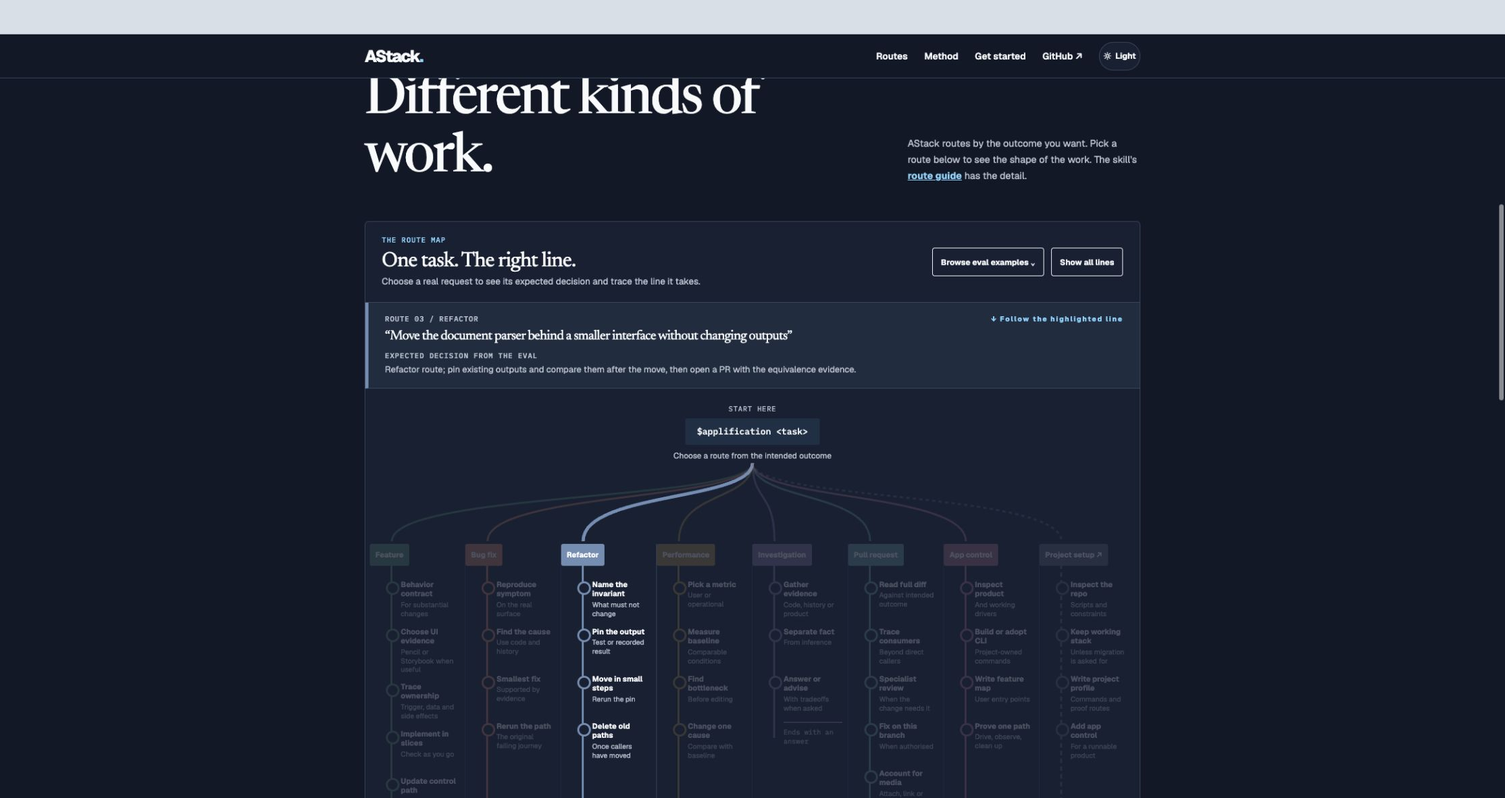
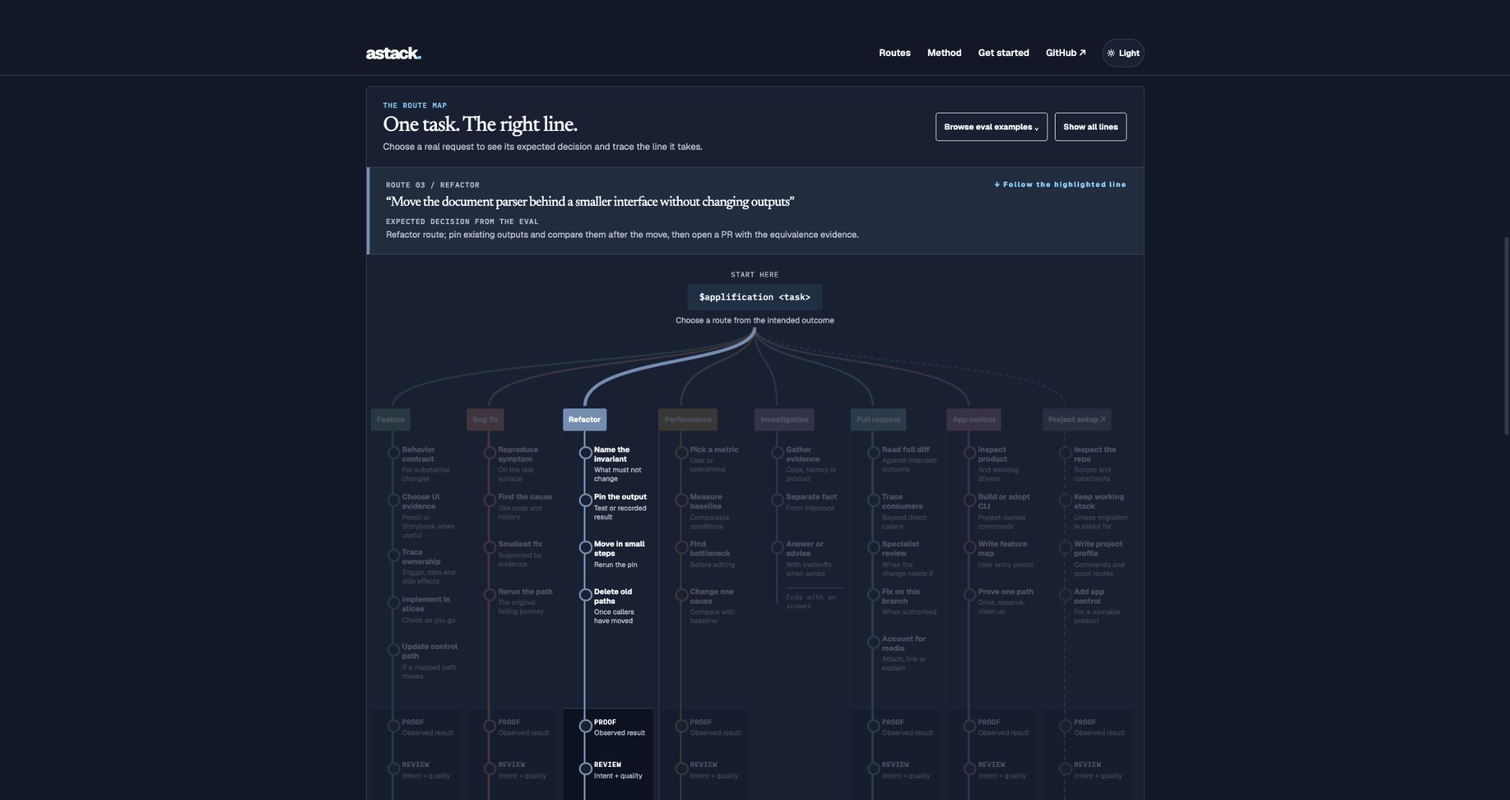
Use lowercase astack branding in site copy

diff --git a/site/index.html b/site/index.html
@@ -4,9 +4,9 @@
   <meta charset="utf-8">
   <meta name="viewport" content="width=device-width, initial-scale=1">
   <meta name="theme-color" content="#d7dfe7">
-  <meta name="description" content="AStack is the Applification plugin for Codex. Give it an engineering task; it chooses a route, checks the result, and brings kept changes to a pull request.">
+  <meta name="description" content="astack is the workflow behind the Applification plugin for Codex. Give it an engineering task; it chooses a route, checks the result, and brings kept changes to a pull request.">
   <meta property="og:type" content="website">
-  <meta property="og:title" content="AStack | From task to proof">
+  <meta property="og:title" content="astack | From task to proof">
   <meta property="og:description" content="A practical map of the Applification workflow for Codex, maintained with the source.">
   <meta property="og:url" content="https://astack.applification.net/">
   <link rel="canonical" href="https://astack.applification.net/">
@@ -17,12 +17,12 @@
   <script>try { const saved = localStorage.getItem('astack-theme'); document.documentElement.dataset.theme = saved || (matchMedia('(prefers-color-scheme: dark)').matches ? 'dark' : 'light'); } catch { document.documentElement.dataset.theme = 'light'; }</script>
   <link rel="stylesheet" href="./styles.css">
   <script src="./app.js" defer></script>
-  <title>AStack | From task to proof</title>
+  <title>astack | From task to proof</title>
 </head>
 <body>
 <a class="skip-link" href="#main">Skip to content</a>
 <header class="site-header">
-  <a class="brand" href="#top" aria-label="AStack home">AStack<span>.</span></a>
+  <a class="brand" href="#top" aria-label="astack home">astack<span>.</span></a>
   <nav class="site-nav" aria-label="Main navigation"><a href="#routes">Routes</a><a href="#method">Method</a><a href="#adopt">Get started</a><a class="nav-repo" href="https://github.com/applification/astack">GitHub ↗</a><button id="theme-toggle" class="theme-toggle" type="button" aria-label="Switch to dark theme"><span id="theme-icon" aria-hidden="true">☾</span><span class="theme-label">Dark</span></button></nav>
 </header>
 <main id="main">
@@ -30,14 +30,14 @@
     <div class="hero-copy">
       <p class="eyebrow"><span class="status-dot" aria-hidden="true"></span> Applification for Codex</p>
       <h1 id="hero-title">From task<br>to <em>proof.</em></h1>
-      <p class="hero-lede">AStack gives Codex one entry point for engineering work. Describe the change. It chooses a route, follows the relevant guidance, checks what happened, and brings kept code to a pull request.</p>
+      <p class="hero-lede">astack gives Codex one entry point for engineering work. Describe the change. It chooses a route, follows the relevant guidance, checks what happened, and brings kept code to a pull request.</p>
       <div class="hero-actions"><a class="button button-dark" href="#adopt">Get started <span aria-hidden="true">↗</span></a><a class="text-link" href="https://github.com/applification/astack/blob/main/plugins/applification/skills/applification/SKILL.md">Read the skill ↗</a></div>
       <p class="source-note">The <a href="https://github.com/applification/astack">repository</a> is the source of truth. This site explains the workflow without pinning it to a release snapshot.</p>
     </div>
-    <aside class="hero-aside"><p class="eyebrow">THE WORKING METHOD</p><p>A task goes to the route that fits it. AStack asks what would prove the outcome, then brings the evidence into review.</p><a href="#routes">Follow the route map ↗</a></aside>
+    <aside class="hero-aside"><p class="eyebrow">THE WORKING METHOD</p><p>A task goes to the route that fits it. astack asks what would prove the outcome, then brings the evidence into review.</p><a href="#routes">Follow the route map ↗</a></aside>
   </section>
   <section class="section-shell routes-section" id="routes" aria-labelledby="routes-title">
-    <div class="section-heading"><div><p class="eyebrow">01 / ROUTING</p><h2 id="routes-title">One entry point.<br><em>Different kinds of work.</em></h2></div><p>AStack routes by the outcome you want. Pick a route below to see the shape of the work. The skill's <a href="https://github.com/applification/astack/blob/main/plugins/applification/skills/applification/references/routes.md">route guide</a> has the detail.</p></div>
+    <div class="section-heading"><div><p class="eyebrow">01 / ROUTING</p><h2 id="routes-title">One entry point.<br><em>Different kinds of work.</em></h2></div><p>astack routes by the outcome you want. Pick a route below to see the shape of the work. The skill's <a href="https://github.com/applification/astack/blob/main/plugins/applification/skills/applification/references/routes.md">route guide</a> has the detail.</p></div>
     <div class="route-workbench" id="route-workbench">
       <div class="map-heading"><div><span class="map-heading-index">THE ROUTE MAP</span><h3>One task. The right line.</h3><p>Choose a real request to see its expected decision and trace the line it takes.</p></div><div class="map-actions"><button id="browse-requests" type="button" aria-expanded="false" aria-controls="trace-panel">Browse eval examples <span aria-hidden="true">⌄</span></button><button id="show-all-routes" type="button">Show all lines</button></div></div>
     <div class="trace-panel" id="trace-panel" aria-labelledby="trace-title" hidden>
@@ -55,7 +55,7 @@
       <p id="route-description"></p>
     </article>
     <p class="mobile-map-entry"><span>START HERE</span><strong>$applification &lt;task&gt;</strong> → choose the line that fits the outcome</p>
-    <div class="map-scroll" role="region" aria-label="Vertical AStack route map. Scroll horizontally on small screens." tabindex="0">
+    <div class="map-scroll" role="region" aria-label="Vertical astack route map. Scroll horizontally on small screens." tabindex="0">
       <div class="route-map" id="route-map">
         <div class="v-entry"><span>START HERE</span><strong>$applification &lt;task&gt;</strong><small>Choose a route from the intended outcome</small></div>
         <svg class="v-branches" viewBox="0 0 1184 128" preserveAspectRatio="none" aria-hidden="true">
@@ -349,7 +349,7 @@
     <p class="routes-caption">The route is a decision guide, not a compulsory checklist. <a href="https://github.com/applification/astack/blob/main/evals/routing.md">See the routing examples ↗</a></p>
   </section>
   <section class="method-section" id="method" aria-labelledby="method-title"><div class="section-shell">
-    <div class="section-heading"><div><p class="eyebrow">02 / METHOD</p><h2 id="method-title">The check follows<br><em>the claim.</em></h2></div><p>A passing command says what that command checked. AStack asks for evidence from the surface where the behavior actually matters.</p></div>
+    <div class="section-heading"><div><p class="eyebrow">02 / METHOD</p><h2 id="method-title">The check follows<br><em>the claim.</em></h2></div><p>A passing command says what that command checked. astack asks for evidence from the surface where the behavior actually matters.</p></div>
     <div class="method-grid">
       <article class="method-card"><span class="method-index">01 / INTENT</span><h3>Name the outcome</h3><p>For a substantial change, keep a short behavior contract in <code>.astack/&lt;feature&gt;/</code>. It ties cases, design choices, and proof together.</p><a href="https://github.com/applification/astack/blob/main/plugins/applification/skills/applification/references/behavior-contract.md">Behavior contract ↗</a></article>
       <article class="method-card"><span class="method-index">02 / BUILD</span><h3>Use what helps</h3><p>For web UI, decide separately whether Pencil and Storybook would answer a real design or component question. Existing projects keep their working stack.</p><a href="https://github.com/applification/astack/blob/main/plugins/applification/skills/applification/references/web-feature.md">Web UI guidance ↗</a></article>
@@ -358,14 +358,14 @@
     </div>
   </div></section>
   <section class="section-shell adopt-section" id="adopt" aria-labelledby="adopt-title">
-    <div class="section-heading"><div><p class="eyebrow">03 / ADOPTION</p><h2 id="adopt-title">Put it to work<br><em>in your project.</em></h2></div><p>The installable plugin is called <strong>Applification</strong>. AStack's guidance stays in this repo; your project owns its commands, environments, and product decisions.</p></div>
+    <div class="section-heading"><div><p class="eyebrow">03 / ADOPTION</p><h2 id="adopt-title">Put it to work<br><em>in your project.</em></h2></div><p>The installable plugin is called <strong>Applification</strong>. astack's guidance stays in this repo; your project owns its commands, environments, and product decisions.</p></div>
     <div class="adopt-grid">
       <div class="install-card"><div class="install-heading"><span>TRY IT IN CODEX</span><button id="copy-command" class="copy-button" type="button" aria-label="Copy installation commands">Copy</button></div><pre><code id="install-command">codex plugin marketplace add applification/astack
 codex plugin add applification@applification</code></pre><p>Then start a task with <code>$applification</code> and describe what you want done.</p></div>
-      <div class="adopt-notes"><div><span class="note-index">01</span><h3>Pin it when it matters</h3><p>For a project-controlled version, point a local marketplace entry at an AStack ref or SHA and enable it in that project's Codex config.</p><a href="https://github.com/applification/astack/blob/main/docs/project-install.md">Project install guide ↗</a></div><div><span class="note-index">02</span><h3>Keep your stack</h3><p>Adopting AStack does not require a framework or package manager migration. Its Bun, Next.js, and Turborepo layout is the default for new products with no chosen stack.</p><a href="https://github.com/applification/astack/blob/main/plugins/applification/skills/applification/references/project-setup.md">Project setup ↗</a></div></div>
+      <div class="adopt-notes"><div><span class="note-index">01</span><h3>Pin it when it matters</h3><p>For a project-controlled version, point a local marketplace entry at an astack ref or SHA and enable it in that project's Codex config.</p><a href="https://github.com/applification/astack/blob/main/docs/project-install.md">Project install guide ↗</a></div><div><span class="note-index">02</span><h3>Keep your stack</h3><p>Adopting astack does not require a framework or package manager migration. Its Bun, Next.js, and Turborepo layout is the default for new products with no chosen stack.</p><a href="https://github.com/applification/astack/blob/main/plugins/applification/skills/applification/references/project-setup.md">Project setup ↗</a></div></div>
     </div>
   </section>
 </main>
-<footer class="site-footer"><div class="section-shell footer-inner"><div><a class="footer-brand" href="#top">AStack<span>.</span></a><p>Open source, built by <a href="https://www.applification.net/">Applification</a>.</p></div><div class="footer-links"><a href="https://github.com/applification/astack">Repository ↗</a><a href="https://github.com/applification/astack/blob/main/README.md">README ↗</a><a href="https://github.com/applification/astack/blob/main/LICENSE">MIT license ↗</a></div></div></footer>
+<footer class="site-footer"><div class="section-shell footer-inner"><div><a class="footer-brand" href="#top">astack<span>.</span></a><p>Open source, built by <a href="https://www.applification.net/">Applification</a>.</p></div><div class="footer-links"><a href="https://github.com/applification/astack">Repository ↗</a><a href="https://github.com/applification/astack/blob/main/README.md">README ↗</a><a href="https://github.com/applification/astack/blob/main/LICENSE">MIT license ↗</a></div></div></footer>
 </body>
 </html>

diff --git a/site/app.js b/site/app.js
@@ -39,13 +39,13 @@ const routes = {
     number: '07', name: 'App control', title: 'Make the real product drivable.',
     description: 'Create or repair a project-owned command and feature map so later work can reach, act on, and observe the product.',
     steps: ['Inspect the product and working drivers', 'Create or adopt the control command', 'Map user entry points', 'Drive one real path and open a PR'],
-    example: '“Set up AStack to verify our web app.”'
+    example: '“Set up astack to verify our web app.”'
   },
   setup: {
-    number: '08', name: 'Project setup', title: 'Fit AStack to the project.',
+    number: '08', name: 'Project setup', title: 'Fit astack to the project.',
     description: 'Inspect the existing stack and working commands. Keep them where they work, record the project profile, and add product control when the app needs it.',
     steps: ['Inspect the repository and scripts', 'Keep the working stack', 'Record commands and proof routes', 'Drive one real path when the project has an app'],
-    example: '“Adopt AStack in an existing pnpm app.”'
+    example: '“Adopt astack in an existing pnpm app.”'
   }
 };
 

diff --git a/README.md b/README.md
@@ -1,12 +1,12 @@
-# AStack
+# astack
 
-AStack is a Codex workflow for moving from an intended change to a verified result. The installable plugin is named **Applification**. Give it an engineering task with `$applification`; it chooses a route, uses the relevant guidance, and checks the outcome. Each project supplies its own commands, environments, and product decisions.
+astack is a Codex workflow for moving from an intended change to a verified result. The installable plugin is named **Applification**. Give it an engineering task with `$applification`; it chooses a route, uses the relevant guidance, and checks the outcome. Each project supplies its own commands, environments, and product decisions.
 
-**[Explore the AStack site](https://astack.applification.net/)** for a visual route map and searchable routing examples. This README and the [skill source](plugins/applification/skills/applification/SKILL.md) hold the detail. The site lives in [`site/`](site/) in this repository.
+**[Explore the astack site](https://astack.applification.net/)** for a visual route map and searchable routing examples. This README and the [skill source](plugins/applification/skills/applification/SKILL.md) hold the detail. The site lives in [`site/`](site/) in this repository.
 
 ## How it works
 
-| You want to… | AStack's route |
+| You want to… | astack's route |
 | --- | --- |
 | Add or change user behavior | Feature |
 | Fix a reported defect | Bug fix |
@@ -16,7 +16,7 @@ AStack is a Codex workflow for moving from an intended change to a verified resu
 | Review or finish an existing change | Pull request |
 | Make a running app controllable for verification | App control |
 
-The route is a decision guide, not a checklist. AStack picks checks that can catch the relevant failure and records what was actually observed. Kept repository changes end in a pull request; a read-only investigation ends with an answer. See the [work routes](plugins/applification/skills/applification/references/routes.md), [proof guidance](plugins/applification/skills/applification/references/proof.md), and [routing examples](evals/routing.md).
+The route is a decision guide, not a checklist. astack picks checks that can catch the relevant failure and records what was actually observed. Kept repository changes end in a pull request; a read-only investigation ends with an answer. See the [work routes](plugins/applification/skills/applification/references/routes.md), [proof guidance](plugins/applification/skills/applification/references/proof.md), and [routing examples](evals/routing.md).
 
 The plugin has one entry skill, [`applification`](plugins/applification/skills/applification/SKILL.md). For web UI work, it decides whether Pencil, Storybook, or both would help with the change and records why. Proof names the affected behavior, revision, environment, and observed result. Example Mapping, Gherkin, a separate story tracker, and a universal proof runner are not required.
 
@@ -29,13 +29,13 @@ codex plugin marketplace add applification/astack
 codex plugin add applification@applification
 ```
 
-For a project-controlled version, use the [project installation guide](docs/project-install.md). Start a task with `$applification`, for example, `$applification Fix the save button that loses edits after reopening`. In Codex CLI or the IDE extension, `/skills` can select the same skill. Plugin skills do not create a literal `/applification` slash command; [Codex's custom prompt commands are deprecated](https://learn.chatgpt.com/docs/custom-prompts). A short pointer in the project's `AGENTS.md` can opt in without a manual mention. During project setup, AStack inspects the repository and creates `.astack/project.md` with local proof routes and decision locations. For a runnable product, it also creates or adopts a project-owned `astack-<app>` control CLI and feature map. The plugin stays sourced from this repository; project-specific details stay in the project.
+For a project-controlled version, use the [project installation guide](docs/project-install.md). Start a task with `$applification`, for example, `$applification Fix the save button that loses edits after reopening`. In Codex CLI or the IDE extension, `/skills` can select the same skill. Plugin skills do not create a literal `/applification` slash command; [Codex's custom prompt commands are deprecated](https://learn.chatgpt.com/docs/custom-prompts). A short pointer in the project's `AGENTS.md` can opt in without a manual mention. During project setup, astack inspects the repository and creates `.astack/project.md` with local proof routes and decision locations. For a runnable product, it also creates or adopts a project-owned `astack-<app>` control CLI and feature map. The plugin stays sourced from this repository; project-specific details stay in the project.
 
 For local development of this plugin, use `codex plugin marketplace add /absolute/path/to/astack` and `codex plugin add applification@applification` in a test Codex installation. The desktop app may need a restart to load an updated installed copy.
 
 ## Behavior contract
 
-For a substantial behavior change, AStack keeps one contract with an outcome, a few observable acceptance cases, affected surfaces, and unresolved product decisions. Given/When/Then can express a case but is not required. For web UI work, record the Pencil and Storybook decisions; when used, link the chosen frames and story IDs beside the cases they support, with what each actually demonstrated. Implementation follows that contract, and running-product proof records the results for the same cases. The PR links the tracked contract and summarizes its evidence.
+For a substantial behavior change, astack keeps one contract with an outcome, a few observable acceptance cases, affected surfaces, and unresolved product decisions. Given/When/Then can express a case but is not required. For web UI work, record the Pencil and Storybook decisions; when used, link the chosen frames and story IDs beside the cases they support, with what each actually demonstrated. Implementation follows that contract, and running-product proof records the results for the same cases. The PR links the tracked contract and summarizes its evidence.
 
 When a design sprint uses Pencil, its artifacts live together in `.astack/`, which must be visible to Git:
 
@@ -49,29 +49,29 @@ When a design sprint uses Pencil, its artifacts live together in `.astack/`, whi
     evidence/
 ```
 
-When used, Storybook stories stay with their components in `apps/` or `packages/` and are referenced from the contract. AStack does not create separate root `design/` and `docs/` folders for feature work.
+When used, Storybook stories stay with their components in `apps/` or `packages/` and are referenced from the contract. astack does not create separate root `design/` and `docs/` folders for feature work.
 
 ## App control
 
-The [app control route](plugins/applification/skills/applification/references/app-control.md) creates a project-local `astack-<app>` CLI that can launch or connect to a running product, check its identity, exercise user actions, inspect results, and capture evidence. Its skill and script live in `.codex/skills/astack-<app>/`; a short feature map in `.astack/feature-map/<app>/` records how users reach each feature and which CLI commands drive it. The CLI is built from the project's existing browser, simulator, terminal, or protocol tools; AStack does not bundle one driver for every product. Setup proves one mapped path end to end, and later changes update the command and map when that path changes.
+The [app control route](plugins/applification/skills/applification/references/app-control.md) creates a project-local `astack-<app>` CLI that can launch or connect to a running product, check its identity, exercise user actions, inspect results, and capture evidence. Its skill and script live in `.codex/skills/astack-<app>/`; a short feature map in `.astack/feature-map/<app>/` records how users reach each feature and which CLI commands drive it. The CLI is built from the project's existing browser, simulator, terminal, or protocol tools; astack does not bundle one driver for every product. Setup proves one mapped path end to end, and later changes update the command and map when that path changes.
 
-For new products without a chosen stack, AStack's default is a Bun workspace monorepo with Turborepo: deployable surfaces in `apps/`, reusable code in `packages/`. A new web UI uses Next.js App Router + TypeScript and shadcn/ui with Tailwind CSS from `packages/ui`. Local web development uses [Portless](https://portless.sh/) for stable, worktree-specific URLs; Portless currently requires Node.js 24+ alongside Bun. Next.js's version-matched agent docs and separately configured DevTools MCP support runtime inspection. The [shadcn lint workflow](plugins/applification/skills/applification/references/shadcn-lint.md) adds design-system checks when shadcn/ui is used. New products needing a database use Convex in `packages/backend`, starting with a named development deployment. Existing projects keep their working stack and tools unless a migration is requested.
+For new products without a chosen stack, astack's default is a Bun workspace monorepo with Turborepo: deployable surfaces in `apps/`, reusable code in `packages/`. A new web UI uses Next.js App Router + TypeScript and shadcn/ui with Tailwind CSS from `packages/ui`. Local web development uses [Portless](https://portless.sh/) for stable, worktree-specific URLs; Portless currently requires Node.js 24+ alongside Bun. Next.js's version-matched agent docs and separately configured DevTools MCP support runtime inspection. The [shadcn lint workflow](plugins/applification/skills/applification/references/shadcn-lint.md) adds design-system checks when shadcn/ui is used. New products needing a database use Convex in `packages/backend`, starting with a named development deployment. Existing projects keep their working stack and tools unless a migration is requested.
 
-For Convex work, install the companion `convex@openai-curated-remote` plugin. AStack uses `@Convex` for general guidance, `$convex:quickstart` where its new-app scaffold fits, `$convex:convex-expert` for backend edits, and `$convex:add` for capabilities in an existing Convex + Next.js app. [Convex PR review](plugins/applification/skills/applification/references/pr.md) requires `$convex:convex-reviewer` before the PR is ready. AStack itself does not bundle the Convex plugin.
+For Convex work, install the companion `convex@openai-curated-remote` plugin. astack uses `@Convex` for general guidance, `$convex:quickstart` where its new-app scaffold fits, `$convex:convex-expert` for backend edits, and `$convex:add` for capabilities in an existing Convex + Next.js app. [Convex PR review](plugins/applification/skills/applification/references/pr.md) requires `$convex:convex-reviewer` before the PR is ready. astack itself does not bundle the Convex plugin.
 
 Proof distinguishes an automated check from a running-product observation. Agent-browser is the greenfield default web driver beneath a project's control CLI; existing apps can use their working driver. A passing test or a screenshot supports only the behavior it actually exercised. Applicable but untested surfaces remain visible as gaps. Before a PR is ready, attach any media captured during proof or explain why media was unnecessary; video is optional.
 
-For MCP servers, AStack has a separate [server and proof path](plugins/applification/skills/applification/references/mcp-server.md). It uses the project's transport and authentication requirements, tests tool contracts through an MCP client, and checks the running endpoint and agent behavior when those boundaries matter. Agent evaluations are selected for changes to tool discovery or model use; a mock server does not establish that the real server works.
+For MCP servers, astack has a separate [server and proof path](plugins/applification/skills/applification/references/mcp-server.md). It uses the project's transport and authentication requirements, tests tool contracts through an MCP client, and checks the running endpoint and agent behavior when those boundaries matter. Agent evaluations are selected for changes to tool discovery or model use; a mock server does not establish that the real server works.
 
 ## Development
 
 Validate the skill and plugin with Codex's bundled `skill-creator` and `plugin-creator` validators before publishing. See [evaluation cases](evals/routing.md) for behavior to exercise when changing routing or proof selection.
 
-The site is plain HTML, CSS, and JavaScript in [`site/`](site/). Preview it with `python3 -m http.server 8000 --directory site`. Run `node site/check.mjs` to catch route, eval, or source-link drift. GitHub Pages publishes the folder after a merge to `main` at `astack.applification.net`. When changing AStack behavior, update the site and README in the same PR; the Pages workflow checks that routes, eval copy, and source links stay current.
+The site is plain HTML, CSS, and JavaScript in [`site/`](site/). Preview it with `python3 -m http.server 8000 --directory site`. Run `node site/check.mjs` to catch route, eval, or source-link drift. GitHub Pages publishes the folder after a merge to `main` at `astack.applification.net`. When changing astack behavior, update the site and README in the same PR; the Pages workflow checks that routes, eval copy, and source links stay current.
 
 ## Sources
 
-AStack draws on [pstack](https://github.com/cursor/plugins/tree/main/pstack), [FetchUpstream's ChatGPT port](https://github.com/FetchUpstream/pstack-plugin), and [Matt Pocock's skills](https://github.com/mattpocock/skills). Their ideas are adapted for a project-independent, Codex-first workflow. See [NOTICE](NOTICE.md).
+astack draws on [pstack](https://github.com/cursor/plugins/tree/main/pstack), [FetchUpstream's ChatGPT port](https://github.com/FetchUpstream/pstack-plugin), and [Matt Pocock's skills](https://github.com/mattpocock/skills). Their ideas are adapted for a project-independent, Codex-first workflow. See [NOTICE](NOTICE.md).
 
 ## License
 

diff --git a/evals/routing.md b/evals/routing.md
@@ -1,8 +1,8 @@
-# AStack routing and proof examples
+# astack routing and proof examples
 
 Use these as realistic checks when editing the skill. Judge the chosen route and actual behavior, not whether the final wording matches this file. Run tasks in a disposable project or review a recorded trial before changing a broad instruction.
 
-Invoke each task through `$applification <request>`. The user chooses only this entry point; AStack chooses the route. A bare `$applification` should ask for the task rather than inventing one.
+Invoke each task through `$applification <request>`. The user chooses only this entry point; astack chooses the route. A bare `$applification` should ask for the task rather than inventing one.
 
 | Request | Expected decision |
 | --- | --- |
@@ -24,9 +24,9 @@ Invoke each task through `$applification <request>`. The user chooses only this 
 | "Add an MCP-only tool" | Behavior contract and implementation, then direct client checks of schema, success, errors and permissions; connect to the running endpoint if transport or deployment is affected. Add an agent check when the model must discover or choose the new tool. Open a PR; no Pencil, Storybook, or shadcn lint without a web UI. |
 | "In an empty repo, build an authenticated remote MCP tool" | Start Bun/Turborepo with `apps/mcp`; use an HTTP MCP adapter and verify token validation, resource discovery, direct calls and the running HTTP endpoint. Add shared packages only for real consumers. No web UI package, Pencil, Storybook, or Convex unless the feature needs them. |
 | "In an empty repo, build a local stdio MCP tool" | Start with `apps/mcp` and the MCP SDK's stdio transport. Do not add Hono, HTTP auth or an HTTP adapter without a requirement for them; prove a spawned client can initialize and call the tool. |
-| "Adopt AStack in an existing pnpm app" | Inspect scripts and CI; keep pnpm and the current layout, document working proof commands, and add project-owned app control only where repeatable driving is useful. Do not migrate the package manager as part of adoption; open a PR. |
-| "Set up AStack to verify our existing web app" | Inspect its current drivers, framework, package manager, and scripts; create or adopt a project-owned `astack-<app>` CLI in `.codex/skills/` and feature map in `.astack/feature-map/<app>/`, prove one real user path through the CLI, and open a PR. The command must drive the app, not merely wrap lint and tests; keep the working stack. |
-| "The app already has a working control CLI and feature guide" | Reuse the working commands, align their skill and map with AStack's proof requirements, and avoid a duplicate driver. |
+| "Adopt astack in an existing pnpm app" | Inspect scripts and CI; keep pnpm and the current layout, document working proof commands, and add project-owned app control only where repeatable driving is useful. Do not migrate the package manager as part of adoption; open a PR. |
+| "Set up astack to verify our existing web app" | Inspect its current drivers, framework, package manager, and scripts; create or adopt a project-owned `astack-<app>` CLI in `.codex/skills/` and feature map in `.astack/feature-map/<app>/`, prove one real user path through the CLI, and open a PR. The command must drive the app, not merely wrap lint and tests; keep the working stack. |
+| "The app already has a working control CLI and feature guide" | Reuse the working commands, align their skill and map with astack's proof requirements, and avoid a duplicate driver. |
 | "A different checkout already owns the usual dev port" | For a new Next.js app, Portless assigns a separate upstream port and a worktree-specific URL. `astack-<app> doctor` reports that URL and verifies its route and process belong to this checkout. It must not stop the other checkout's process. |
 | "A headless agent starts a new Next.js app before Portless trust is configured" | Report the failed proxy or certificate preflight and exact interactive setup needed. Do not drive another checkout's route or quietly switch to a fixed port. |
 | "Next DevTools reports a route error while the browser still renders a page" | Confirm the DevTools connection points at this checkout, inspect the runtime error, then use the control CLI and browser to establish the affected user-path outcome. Do not treat a framework diagnostic as browser proof. |
@@ -42,4 +42,4 @@ Invoke each task through `$applification <request>`. The user chooses only this 
 | "Update a web-only illustration" | Select visual proof on web; explain why server and unrelated client checks do not apply. |
 | "Implement the proposed design despite an unresolved delete-confirmation choice" | Ask for the product decision before coding that branch; continue independent work. |
 
-After a trial, record whether AStack chose the right route, found an important missing decision, selected checks proportionately, and reported proof honestly. Fix an observed failure narrowly rather than adding more universal gates.
+After a trial, record whether astack chose the right route, found an important missing decision, selected checks proportionately, and reported proof honestly. Fix an observed failure narrowly rather than adding more universal gates.

diff --git a/.astack/site/behavior-contract.md b/.astack/site/behavior-contract.md
@@ -1,12 +1,12 @@
-# AStack site behavior contract
+# astack site behavior contract
 
 ## Outcome
 
-A visitor can understand what AStack does, find the route for a task, install the Applification plugin, and reach the current source. Maintainers can update the explanation in this repository alongside workflow changes.
+A visitor can understand what astack does, find the route for a task, install the Applification plugin, and reach the current source. Maintainers can update the explanation in this repository alongside workflow changes.
 
 ## Acceptance
 
-- A1. The landing page explains the entry skill, seven routes, proof, and the PR outcome without relying on a dated PR count or snapshot.
+- A1. The landing page uses `astack` in the wordmark and prose, and explains the entry skill, seven routes, proof, and the PR outcome without relying on a dated PR count or snapshot.
 - A2. The vertical route map stays readable as an underground-style map. Choosing a line highlights its branch and stations.
 - A3. The map and routing explorer share one surface. The explorer groups current eval cases by route without showing every case at once; search narrows the cases. Selecting a case closes the explorer and brings its expected decision and highlighted map line into view together.
 - A4. Light and dark themes follow Applification's design roles, honor the system preference on first visit, and let the visitor switch and retain a choice.
